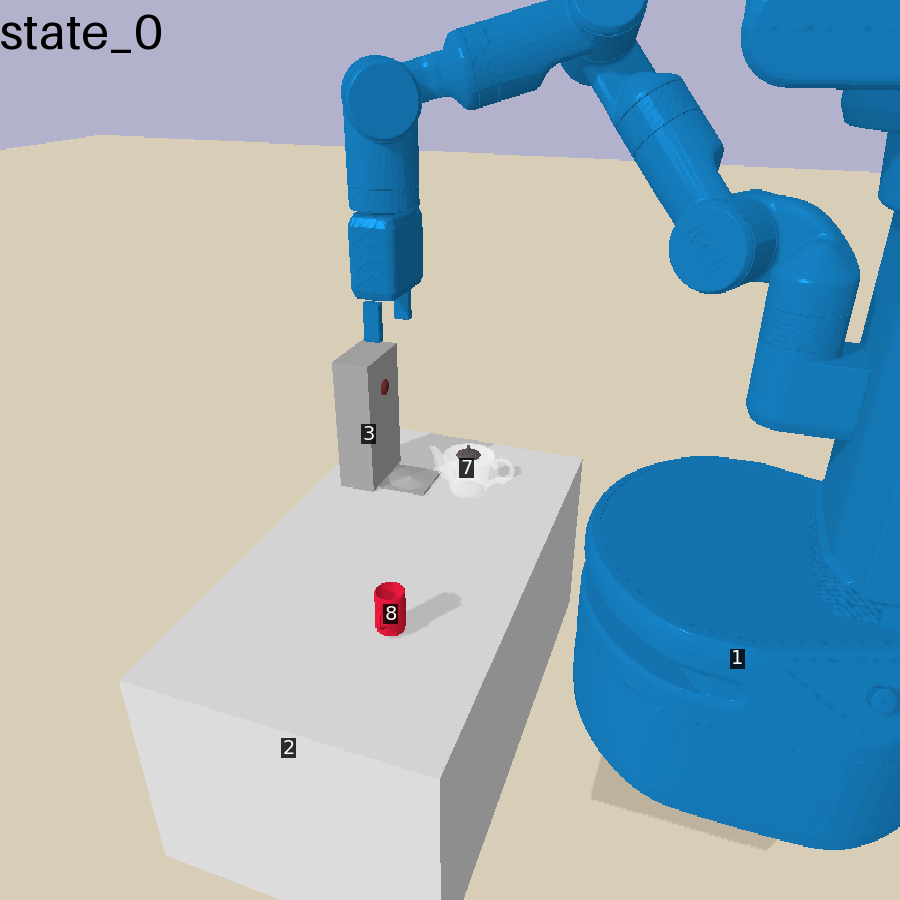
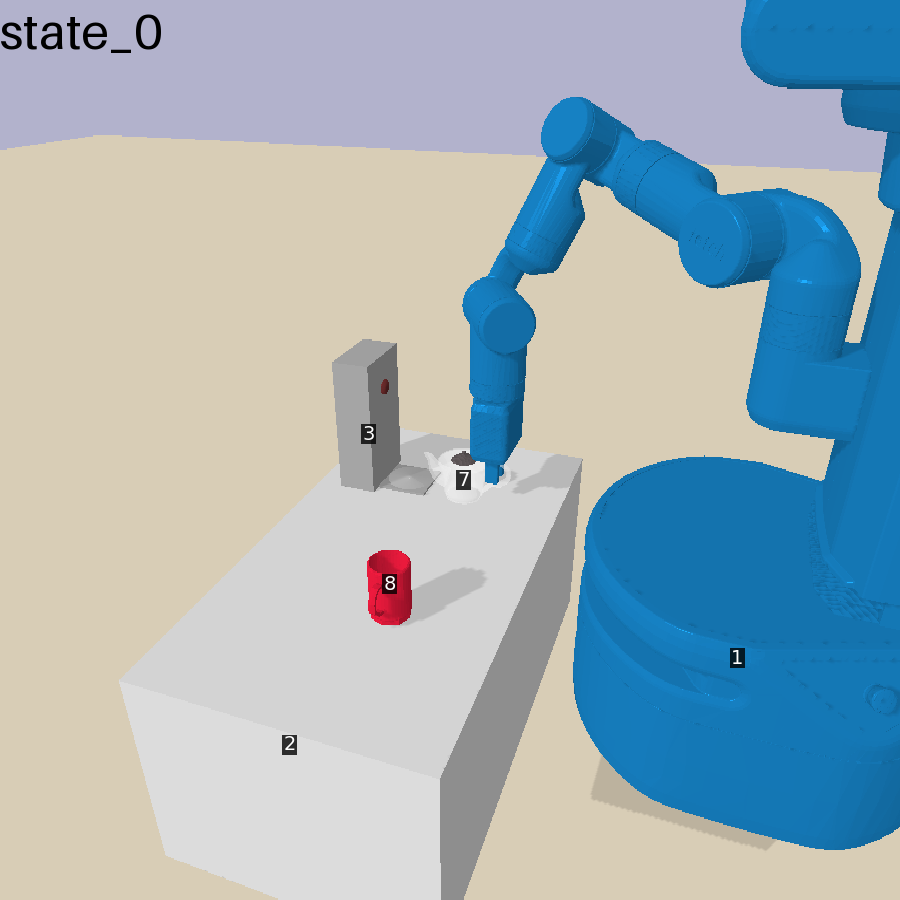
update jug/cup y_lb

diff --git a/predicators/envs/pybullet_coffee.py b/predicators/envs/pybullet_coffee.py
@@ -78,7 +78,7 @@ class PyBulletCoffeeEnv(PyBulletEnv, CoffeeEnv):
     jug_init_x_ub: ClassVar[
         float] = machine_x + machine_x_len / 2 - init_padding
     # adding 1 extra padding
-    jug_init_y_lb: ClassVar[float] = y_lb + 3 * jug_radius + init_padding * 2
+    jug_init_y_lb: ClassVar[float] = y_lb + 3 * jug_radius + init_padding
     jug_init_y_ub: ClassVar[
         float] = machine_y - machine_y_len - 3 * jug_radius - init_padding
     jug_handle_offset: ClassVar[float] = 3 * jug_radius
@@ -93,7 +93,7 @@ class PyBulletCoffeeEnv(PyBulletEnv, CoffeeEnv):
     cup_init_x_lb: ClassVar[float] = x_lb + cup_radius + init_padding
     cup_init_x_ub: ClassVar[
         float] = machine_x - machine_x_len / 2 - cup_radius - init_padding
-    cup_init_y_lb: ClassVar[float] = jug_init_y_lb
+    cup_init_y_lb: ClassVar[float] = jug_init_y_lb + init_padding
     cup_init_y_ub: ClassVar[float] = jug_init_y_ub
     cup_capacity_lb: ClassVar[float] = 0.075 * (z_ub - z_lb)
     cup_capacity_ub: ClassVar[float] = 0.15 * (z_ub - z_lb)
@@ -145,6 +145,10 @@ class PyBulletCoffeeEnv(PyBulletEnv, CoffeeEnv):
         attention_image = state.crop_to_objects([cup])
         return state.evaluate_simple_assertion(
             f"{cup_name} has coffee in it", attention_image)
+
+    @property
+    def ns_predicates(self) -> Set[NSPredicate]:
+        return {self._CupFilled_NSP}
 
     @property
     def oracle_proposed_predicates(self) -> Set[Predicate]:
